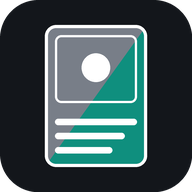
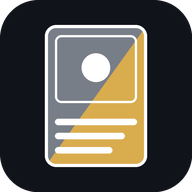
Ajuste No Layout

Changed region(s): [[0.25, 0.1562, 0.75, 0.875]]

diff --git a/index.html b/index.html
@@ -5,106 +5,143 @@
 <meta name="viewport" content="width=device-width, initial-scale=1">
 <title>Meus Master Sets</title>
 <link rel="manifest" href="manifest.json">
-<meta name="theme-color" content="#0f8f7e">
+<meta name="theme-color" content="#101319">
 <meta name="mobile-web-app-capable" content="yes">
 <meta name="apple-mobile-web-app-capable" content="yes">
 <meta name="apple-mobile-web-app-title" content="Master Sets">
 <link rel="icon" href="icon-192.png">
 <link rel="apple-touch-icon" href="icon-192.png">
 <style>
-:root{--bg:#eef0f3;--panel:#fff;--ink:#1b1f27;--mute:#6b7280;--line:#d9dde3;--acc:#0f8f7e;--accink:#fff;--warn:#c2410c}
-@media (prefers-color-scheme:dark){:root:not([data-theme=light]){--bg:#13161b;--panel:#1c2027;--ink:#e8eaee;--mute:#98a1ae;--line:#2c323c;--acc:#3ccab5;--accink:#08201c;--warn:#fb923c}}
+:root{color-scheme:dark;--bg:#15181e;--bg2:#101319;--panel:#1d212a;--panel2:#272c37;--ink:#ebe7df;--mute:#9aa0ac;--line:#2e3440;--acc:#d9ac4e;--accink:#1a1405;--warn:#f08a5d;--serif:Georgia,"Iowan Old Style","Palatino Linotype",serif}
 *{box-sizing:border-box}
-body{margin:0;background:var(--bg);color:var(--ink);font:15px/1.45 "Trebuchet MS",Verdana,sans-serif}
-header{display:flex;gap:12px;align-items:center;flex-wrap:wrap;padding:14px 18px;background:var(--panel);border-bottom:1px solid var(--line);position:sticky;top:0;z-index:5}
-h1{font-size:18px;margin:0 8px 0 0}
-select,input,button{font:inherit;color:var(--ink);background:var(--bg);border:1px solid var(--line);border-radius:8px;padding:7px 10px}
-button{cursor:pointer}
-button.p{background:var(--acc);color:var(--accink);border-color:var(--acc);font-weight:bold}
-button:focus-visible,input:focus-visible,select:focus-visible,.card:focus-visible{outline:2px solid var(--acc);outline-offset:2px}
-.sp{flex:1}
-main{padding:18px;max-width:1300px;margin:0 auto}
-.bar{display:flex;gap:14px;align-items:center;flex-wrap:wrap;margin-bottom:14px}
-.prog{flex:1;min-width:200px}
-.track{height:10px;background:var(--line);border-radius:6px;overflow:hidden;margin-top:4px}
-.fill{height:100%;background:var(--acc);width:0;transition:width .4s}
-.grid{display:grid;grid-template-columns:repeat(auto-fill,minmax(150px,1fr));gap:14px}
-.card{position:relative;background:var(--panel);border:1px solid var(--line);border-radius:10px;padding:6px;cursor:pointer;text-align:center}
-.card .im{aspect-ratio:245/342;border-radius:6px;overflow:hidden;background:var(--line);display:flex;align-items:center;justify-content:center;font-size:12px;color:var(--mute);padding:6px}
-.card img{width:100%;height:100%;object-fit:cover;display:block;filter:grayscale(1) opacity(.5);transition:filter .35s}
-.card.own img{filter:none}
-.card.own{border-color:var(--acc);box-shadow:0 0 0 2px var(--acc)}
-.card small{display:block;color:var(--mute);font-size:11px;margin-top:4px;line-height:1.25}
-.card b{display:block;font-size:13px;margin-top:5px}
-.card .x{position:absolute;z-index:2;top:8px;right:8px;padding:0 7px;line-height:22px;border-radius:50%;opacity:0}
-.card:hover .x,.card:focus-within .x{opacity:1}
-.empty{padding:50px 10px;text-align:center;color:var(--mute)}
-dialog{background:var(--panel);color:var(--ink);border:1px solid var(--line);border-radius:12px;padding:18px;width:min(720px,94vw);max-height:90vh}
-dialog::backdrop{background:rgba(0,0,0,.5)}
-.row{display:flex;gap:8px;flex-wrap:wrap;margin:8px 0}
-.row input{flex:1;min-width:140px}
-.res{display:grid;grid-template-columns:repeat(auto-fill,minmax(96px,1fr));gap:8px;margin:10px 0;max-height:46vh;overflow:auto}
-.res label{font-size:11px;text-align:center;cursor:pointer;border:2px solid transparent;border-radius:8px;padding:3px}
-.res label.on{border-color:var(--acc)}
-.res img{width:100%;border-radius:4px;display:block}
-.res input{display:none}
-.tabs{display:flex;gap:6px}
-.tabs button.on{background:var(--acc);color:var(--accink);border-color:var(--acc)}
-.msg{color:var(--mute);font-size:13px;min-height:18px}
-.msg.err{color:var(--warn)}
-.card .x.v{left:8px;right:auto;font-size:13px}
-@media (hover:none){.card .x{opacity:.85}}
-.meta{color:var(--acc);font-weight:bold}
-.dg{display:grid;grid-template-columns:minmax(0,260px) 1fr;gap:18px}
-@media(max-width:600px){.dg{grid-template-columns:1fr}}
-.dimg img{width:100%;border-radius:10px;display:block;cursor:zoom-in}
-.dimg button{width:100%;margin-top:8px}
-.dform{display:flex;flex-direction:column;gap:10px}
-.dform h2{margin:0;font-size:18px}
-.dform label{display:flex;flex-direction:column;gap:3px;font-size:13px;color:var(--mute)}
-.dform label.chk{flex-direction:row;align-items:center;gap:8px;color:var(--ink);font-size:15px}
-.dform label.chk input{width:18px;height:18px}
-#lb{position:fixed;inset:0;background:#000;z-index:50;display:flex;align-items:center;justify-content:center}
-#lb[hidden]{display:none}
-#lb img{max-width:100%;max-height:100vh;object-fit:contain}
-#lb button{position:absolute;background:rgba(255,255,255,.18);color:#fff;border:0;font-size:28px;width:48px;height:48px;border-radius:50%;padding:0}
-#lbX{top:14px;right:14px}#lbPrev{left:14px;top:50%}#lbNext{right:14px;top:50%}
-#lbCap{position:absolute;bottom:14px;left:0;right:0;text-align:center;color:#fff;font-size:14px;text-shadow:0 1px 4px #000}
-.card .x.h{left:50%;right:auto;transform:translateX(-50%);opacity:.9;cursor:grab;touch-action:none;user-select:none;-webkit-user-select:none;padding:0 10px}
-.card.drag{opacity:.35}
-.card.ghost{position:fixed;z-index:60;pointer-events:none;opacity:.92;box-shadow:0 10px 28px rgba(0,0,0,.45);transform:rotate(3deg)}
-.card.dropB{box-shadow:-6px 0 0 0 var(--acc)!important}
-.card.dropA{box-shadow:6px 0 0 0 var(--acc)!important}
 [hidden]{display:none!important}
+body{margin:0;background:var(--bg);color:var(--ink);font:15px/1.45 system-ui,-apple-system,"Segoe UI",Roboto,sans-serif}
+button,select,input{font:inherit;color:var(--ink);background:var(--panel2);border:1px solid var(--line);border-radius:8px;padding:8px 12px;min-height:38px}
+input,select{background:var(--bg2)}
+button{cursor:pointer}button:hover{border-color:#4a5262}
+button.p{background:var(--acc);color:var(--accink);border-color:var(--acc);font-weight:700}
+button:disabled{opacity:.45;cursor:default}
+button:focus-visible,input:focus-visible,select:focus-visible,.card:focus-visible,.rc:focus-within{outline:2px solid var(--acc);outline-offset:2px}
+.sp{flex:1}
+.msg{color:var(--mute);font-size:13px;min-height:18px}.msg.err{color:var(--warn)}
+header{display:flex;gap:10px;align-items:center;padding:10px 18px;background:var(--bg2);border-bottom:1px solid var(--line);position:sticky;top:0;z-index:5}
+header img{border-radius:7px;display:block}
+h1{font:bold 20px/1 var(--serif);margin:0}
+.menuwrap{position:relative}
+#menu{position:absolute;right:0;top:calc(100% + 6px);min-width:210px;background:var(--panel);border:1px solid var(--line);border-radius:10px;padding:6px;z-index:20;box-shadow:0 12px 30px rgba(0,0,0,.5);display:flex;flex-direction:column}
+#menu button{text-align:left;border:0;background:transparent}#menu button:hover{background:var(--panel2)}
+main{padding:18px;max-width:1300px;margin:0 auto}
+.tools{display:flex;gap:10px;align-items:center;flex-wrap:wrap;margin-bottom:14px}
+.seg{display:inline-flex;background:var(--bg2);border:1px solid var(--line);border-radius:10px;padding:3px;gap:2px}
+.seg button{border:0;background:transparent;color:var(--mute);min-height:32px;padding:4px 12px;border-radius:7px}
+.seg button.on{background:var(--panel2);color:var(--ink);box-shadow:inset 0 0 0 1px var(--acc)}
+.sum{background:var(--panel);border:1px solid var(--line);border-left:4px solid var(--acc);border-radius:10px;padding:12px 14px;margin-bottom:14px}
+#progTxt{font:600 17px/1.3 var(--serif)}
+.track{height:8px;background:var(--bg2);border-radius:5px;overflow:hidden;margin-top:8px;box-shadow:inset 0 1px 2px rgba(0,0,0,.5)}
+.fill{height:100%;background:linear-gradient(90deg,#b98a2e,var(--acc));width:0;transition:width .4s}
+.grid{display:grid;grid-template-columns:repeat(auto-fill,minmax(150px,1fr));gap:14px}
+@media(max-width:620px){.grid{grid-template-columns:repeat(auto-fill,minmax(128px,1fr));gap:10px}main{padding:12px}header{padding:8px 12px}}
+.card{position:relative;background:linear-gradient(#262b36,#1d212a);border:1px solid var(--line);border-radius:8px;padding:7px;cursor:pointer;text-align:center;box-shadow:inset 0 1px 0 rgba(255,255,255,.06),0 2px 6px rgba(0,0,0,.35)}
+.card .im{position:relative;aspect-ratio:245/342;border-radius:5px;overflow:hidden;background:var(--bg2);display:flex;align-items:center;justify-content:center;font-size:12px;color:var(--mute);padding:6px;box-shadow:inset 0 6px 14px rgba(0,0,0,.45)}
+.card .im::after{content:"";position:absolute;inset:0;background:linear-gradient(115deg,rgba(255,255,255,.11),transparent 38%);pointer-events:none}
+.card img{position:absolute;inset:0;width:100%;height:100%;object-fit:cover;display:block;filter:grayscale(1) opacity(.45);transition:filter .35s}
+.card.own img{filter:none}
+.card.own{border-color:var(--acc);box-shadow:0 0 0 1px var(--acc),0 4px 16px rgba(217,172,78,.2)}
+.card.own .im::before{content:"✓";position:absolute;right:6px;bottom:6px;z-index:1;width:22px;height:22px;border-radius:50%;background:var(--acc);color:var(--accink);font-weight:bold;line-height:22px}
+.card b{display:block;font-size:13px;margin-top:6px;white-space:nowrap;overflow:hidden;text-overflow:ellipsis}
+.card small{display:block;color:var(--mute);font-size:11px;margin-top:2px;line-height:1.25}
+.card small.meta{color:var(--acc);font-weight:600}
+.card .x{position:absolute;z-index:2;top:10px;right:10px;min-height:0;height:26px;min-width:26px;padding:0 7px;line-height:24px;border-radius:50%;background:rgba(12,14,18,.82);border-color:rgba(255,255,255,.18);opacity:0}
+.card:hover .x,.card:focus-within .x{opacity:1}
+@media(hover:none){.card .x{opacity:.85}}
+.card .x.v{left:10px;right:auto;font-size:13px}
+.card .x.h{left:50%;right:auto;transform:translateX(-50%);opacity:.95;cursor:grab;touch-action:none;user-select:none;-webkit-user-select:none;padding:0 10px}
+.card.drag{opacity:.35}
+.card.ghost{position:fixed;z-index:60;pointer-events:none;opacity:.92;box-shadow:0 10px 28px rgba(0,0,0,.5);transform:rotate(3deg)}
+.card.dropB{box-shadow:-6px 0 0 0 var(--acc)!important}.card.dropA{box-shadow:6px 0 0 0 var(--acc)!important}
+.empty{padding:56px 12px;text-align:center;color:var(--mute);font:16px/1.5 var(--serif)}.empty button{margin-top:14px;font-family:system-ui,sans-serif}
+.grid .empty{grid-column:1/-1;padding:24px 10px}
 #multi{display:flex;flex-direction:column;gap:12px}
-.setbox{background:var(--panel);border:1px solid var(--line);border-radius:12px;overflow:hidden}
+.setbox{background:var(--panel);border:1px solid var(--line);border-left:4px solid var(--acc);border-radius:12px;overflow:hidden}
 .sethead{display:flex;align-items:center;gap:10px;flex-wrap:wrap;padding:8px 10px}
-.sethead .tog{flex:1;min-width:160px;text-align:left;font-weight:bold;font-size:16px;border:0;background:transparent}
+.sethead .tog{flex:1;min-width:160px;text-align:left;border:0;background:transparent;font:bold 17px/1.3 var(--serif)}
 .sethead .sinfo{color:var(--mute);font-size:13px}
 .sethead .track{width:110px;margin:0}
 .setbox>.grid{padding:4px 12px 14px}
 .chev{display:inline-block;width:1.1em;color:var(--acc)}
-.grid .empty{grid-column:1/-1;padding:24px 10px}
+dialog{background:var(--panel);color:var(--ink);border:1px solid var(--line);border-radius:14px;padding:16px 18px;width:min(740px,94vw);max-height:92vh;box-shadow:0 24px 60px rgba(0,0,0,.6)}
+dialog[open]{display:flex;flex-direction:column;gap:12px}
+dialog::backdrop{background:rgba(5,6,9,.74)}
+@media(max-width:620px){dialog{width:100vw;max-width:100vw;margin:auto 0 0 0;border-radius:16px 16px 0 0;max-height:94vh}}
+.dhead{display:flex;align-items:center;gap:10px}
+.dhead h2{margin:0;font:bold 19px/1.2 var(--serif);flex:1}
+.ic{width:38px;padding:0;font-size:22px;line-height:1;border-radius:50%}
+.row{display:flex;gap:8px;align-items:center;flex-wrap:wrap}.row input{flex:1;min-width:150px}
+.pane{display:flex;flex-direction:column;gap:10px;min-width:0}
+.dfoot{display:flex;gap:8px;align-items:center;padding-top:10px;border-top:1px solid var(--line)}
+.res{display:grid;grid-template-columns:repeat(auto-fill,minmax(104px,1fr));gap:10px;max-height:min(46vh,430px);min-height:120px;overflow:auto;padding:2px}
+.rc{position:relative;display:flex;flex-direction:column;gap:3px;font-size:11px;text-align:center;cursor:pointer;border:2px solid transparent;border-radius:10px;padding:4px;background:var(--bg2)}
+.rc input{position:absolute;opacity:0;pointer-events:none}
+.rimg{display:block;aspect-ratio:245/342;border-radius:6px;overflow:hidden;background:var(--panel2)}
+.rimg img{width:100%;height:100%;object-fit:cover;display:block}
+.rn{font-weight:600;overflow:hidden;white-space:nowrap;text-overflow:ellipsis}.rs{color:var(--mute)}
+.rc.on{border-color:var(--acc)}
+.rc.on::after{content:"✓";position:absolute;top:8px;right:8px;width:22px;height:22px;border-radius:50%;background:var(--acc);color:var(--accink);font-weight:bold;line-height:22px}
+.rc.have{opacity:.5;cursor:default}
+.tagin{position:absolute;top:8px;left:8px;background:var(--panel2);border:1px solid var(--line);border-radius:6px;padding:0 6px;font-size:10px}
+.form{display:grid;grid-template-columns:1fr 1fr;gap:10px}.form .full{grid-column:1/-1}
+.form label,.dform label{display:flex;flex-direction:column;gap:4px;font-size:13px;color:var(--mute)}
+.dg{display:grid;grid-template-columns:minmax(0,250px) 1fr;gap:18px}
+@media(max-width:620px){.dg{grid-template-columns:1fr}.dimg{max-width:230px;margin:0 auto}}
+.dimg .slot{border-radius:10px;overflow:hidden;background:var(--bg2);box-shadow:0 6px 18px rgba(0,0,0,.5)}
+.dimg img{width:100%;display:block;cursor:zoom-in}
+.dimg button{width:100%;margin-top:8px}
+.dform{display:flex;flex-direction:column;gap:12px}
+.two{display:grid;grid-template-columns:1fr 1fr;gap:10px}
+label.sw{flex-direction:row;align-items:center;gap:12px;cursor:pointer;padding:10px 12px;background:var(--bg2);border:1px solid var(--line);border-radius:10px;font-size:15px;color:var(--ink)}
+.sw input{appearance:none;-webkit-appearance:none;flex:none;width:44px;height:26px;min-height:0;border:0;padding:0;margin:0;border-radius:13px;background:#3b4250;position:relative;transition:background .2s}
+.sw input::after{content:"";position:absolute;top:3px;left:3px;width:20px;height:20px;border-radius:50%;background:#fff;transition:left .2s}
+.sw input:checked{background:var(--acc)}.sw input:checked::after{left:21px;background:var(--accink)}
+.money{display:flex;align-items:center;background:var(--bg2);border:1px solid var(--line);border-radius:8px;padding-left:12px;color:var(--mute)}
+.money input{border:0;background:transparent;flex:1;min-width:0}
+details summary{cursor:pointer;color:var(--mute);font-size:13px;margin-bottom:6px}
+.hmb{display:none}
+@media(max-width:620px){h1,#addBtn{white-space:nowrap}.hd{display:none}.hmb{display:inline}.sethead{gap:8px}.sethead .tog{flex:1 0 140px;min-width:0}.sethead button[data-add]{padding:6px 10px}.sethead .sinfo{order:8}.sethead .track{order:9;flex:1;width:auto;min-width:80px}}
+#lb{position:fixed;inset:0;background:#000;z-index:50;display:flex;align-items:center;justify-content:center}
+#lb img{max-width:100%;max-height:100vh;object-fit:contain}
+#lb button{position:absolute;background:rgba(255,255,255,.18);color:#fff;border:0;font-size:28px;width:48px;height:48px;border-radius:50%;padding:0}
+#lbX{top:14px;right:14px}#lbPrev{left:14px;top:50%}#lbNext{right:14px;top:50%}
+#lbCap{position:absolute;bottom:14px;left:0;right:0;text-align:center;color:#fff;font-size:14px;text-shadow:0 1px 4px #000}
 </style>
 </head>
 <body>
 <header>
+  <img src="icon-192.png" width="30" height="30" alt="">
   <h1>Master Sets</h1>
-  <select id="viewSel" aria-label="Tipo de visualização"><option value="one">Visualização: set único</option><option value="multi">Visualização: vários sets</option></select>
-  <select id="setSel" aria-label="Master set"></select>
-  <button id="newSet">Novo master set</button>
-  <button id="delSet">Excluir set</button>
-  <button id="expAll">Expandir todos</button><button id="colAll">Recolher todos</button>
   <span class="sp"></span>
-  <button class="p" id="addBtn">Adicionar cartas</button>
-  <button id="expBtn">Exportar backup</button>
-  <button id="impBtn">Importar</button>
+  <button class="p" id="addBtn"><span class="hd">+ Adicionar cartas</span><span class="hmb">+ Cartas</span></button>
+  <div class="menuwrap">
+    <button id="menuBtn" class="ic" aria-haspopup="menu" aria-expanded="false" aria-label="Mais opções">⋯</button>
+    <div id="menu" role="menu" hidden>
+      <button id="newSet">Novo master set</button>
+      <button id="delSet">Excluir set atual</button>
+      <button id="expBtn">Exportar backup</button>
+      <button id="impBtn">Importar backup</button>
+    </div>
+  </div>
   <input type="file" id="impFile" accept=".json" hidden>
 </header>
 <main>
-  <div class="bar">
-    <div class="prog"><span id="progTxt"></span><div class="track"><div class="fill" id="fill"></div></div></div>
-    <select id="filter" aria-label="Filtro"><option value="all">Todas</option><option value="miss">Faltando</option><option value="own">Já tenho</option></select>
+  <div class="tools">
+    <div class="seg" id="viewSeg" role="group" aria-label="Visualização"><button data-v="one">Set único</button><button data-v="multi">Vários sets</button></div>
+    <select id="viewSel" hidden><option value="one"></option><option value="multi"></option></select>
+    <select id="setSel" aria-label="Master set"></select>
+    <button id="expAll">Expandir</button><button id="colAll">Recolher</button>
+  </div>
+  <div class="sum"><span id="progTxt"></span><div class="track"><div class="fill" id="fill"></div></div></div>
+  <div class="tools">
+    <div class="seg" id="filterSeg" role="group" aria-label="Filtro"><button data-f="all">Todas</button><button data-f="miss">Faltando</button><button data-f="own">Já tenho</button></div>
+    <select id="filter" hidden><option value="all"></option><option value="miss"></option><option value="own"></option></select>
     <select id="sort" aria-label="Ordenação"><option value="date">Ordem: lançamento</option><option value="az">Ordem: A–Z</option><option value="za">Ordem: Z–A</option><option value="manual">Ordem: manual (arrastar)</option></select>
     <span class="msg" id="hint"></span>
   </div>
@@ -112,46 +149,40 @@ dialog::backdrop{background:rgba(0,0,0,.5)}
 </main>
 
 <dialog id="dlg">
+  <div class="dhead"><h2>Adicionar cartas</h2><button class="ic" id="close" aria-label="Fechar">×</button></div>
   <div class="row"><span class="msg">Adicionar ao set:</span><select id="tgt" aria-label="Set de destino"></select></div>
-  <div class="tabs">
-    <button id="tApi" class="on">Buscar na internet</button>
-    <button id="tMan">Cadastrar manualmente</button>
-  </div>
-  <div id="pApi">
-    <div class="row">
-      <select id="mode"><option value="artist">Ilustrador</option><option value="name">Nome da carta</option></select>
-      <input id="q" placeholder="Ex.: Mitsuhiro Arita" aria-label="Busca">
-      <button class="p" id="go">Buscar</button>
-    </div>
+  <div class="seg"><button id="tApi" class="on">Buscar na internet</button><button id="tMan">Cadastrar manualmente</button></div>
+  <div id="pApi" class="pane">
+    <div class="seg" id="modeSeg"><button data-m="artist" class="on">Ilustrador</button><button data-m="name">Nome da carta</button></div>
+    <select id="mode" hidden><option value="artist"></option><option value="name"></option></select>
+    <div class="row"><input id="q" placeholder="Ex.: Mitsuhiro Arita" aria-label="Busca"><button class="p" id="go">Buscar</button></div>
     <div class="msg" id="apiMsg"></div>
     <div class="res" id="res"></div>
-    <div class="row">
-      <button id="selAll">Marcar todas</button>
-      <button id="more" hidden>Carregar mais</button>
-      <span class="sp"></span>
-      <button class="p" id="addSel">Adicionar selecionadas</button>
+    <div class="dfoot"><button id="selAll">Marcar todas</button><button id="more" hidden>Carregar mais</button><span class="sp"></span><button class="p" id="addSel" disabled>Adicionar selecionadas</button></div>
+  </div>
+  <div id="pMan" class="pane" hidden>
+    <div class="form">
+      <label class="full">Nome da carta<input id="mName" placeholder="Ex.: Charizard"></label>
+      <label>Coleção<input id="mSet" placeholder="Opcional"></label>
+      <label>Número<input id="mNum" placeholder="Opcional"></label>
+      <label class="full">URL da imagem<input id="mImg" placeholder="https://... (opcional)"></label>
     </div>
+    <div class="msg">Sem URL, o app tenta achar a imagem pelo nome e número.</div>
+    <div class="dfoot"><span class="sp"></span><button class="p" id="mAdd">Adicionar carta</button></div>
   </div>
-  <div id="pMan" hidden>
-    <div class="row"><input id="mName" placeholder="Nome da carta"><input id="mSet" placeholder="Coleção (opcional)"><input id="mNum" placeholder="Número (opcional)"></div>
-    <div class="row"><input id="mImg" placeholder="URL da imagem (opcional)"></div>
-    <div class="msg">Sem URL, o app tenta achar a imagem pelo nome e número na internet.</div>
-    <div class="row"><span class="sp"></span><button class="p" id="mAdd">Adicionar carta</button></div>
-  </div>
-  <div class="row"><span class="sp"></span><button id="close">Fechar</button></div>
 </dialog>
 
 <dialog id="det">
+  <div class="dhead"><h2 id="dName"></h2><button class="ic" id="dClose" aria-label="Fechar">×</button></div>
+  <div class="msg" id="dSub"></div>
   <div class="dg">
-    <div class="dimg"><img id="dImg" alt=""><button id="dFull">Tela cheia</button></div>
+    <div class="dimg"><div class="slot"><img id="dImg" alt=""></div><button id="dFull">⤢ Tela cheia</button></div>
     <div class="dform">
-      <h2 id="dName"></h2><div class="msg" id="dSub"></div>
-      <label class="chk"><input type="checkbox" id="dOwn"> Já tenho esta carta</label>
-      <label>Condição<select id="dCond"></select></label>
-      <label>Versão<select id="dVer"></select></label>
-      <label>Preço pago (R$)<input id="dPrice" type="number" min="0" step="0.01" inputmode="decimal"></label>
-      <label>URL da imagem<input id="dUrl" placeholder="https://..."></label>
-      <div class="row"><span class="sp"></span><button class="p" id="dClose">Fechar</button></div>
+      <label class="sw"><input type="checkbox" id="dOwn"><span>Já tenho esta carta</span></label>
+      <div class="two"><label>Condição<select id="dCond"></select></label><label>Versão<select id="dVer"></select></label></div>
+      <label>Preço pago<div class="money"><span>R$</span><input id="dPrice" type="number" min="0" step="0.01" inputmode="decimal" placeholder="0,00"></div></label>
+      <details><summary>Imagem da carta</summary><label>URL da imagem<input id="dUrl" placeholder="https://..."></label></details>
+      <div class="msg">As alterações são salvas automaticamente.</div>
     </div>
   </div>
 </dialog>
@@ -182,14 +213,14 @@ function stats(cards){
 }
 function findCard(id){for(const s of S.sets){const c=s.cards.find(x=>x.id===id);if(c)return {s,c}}return null}
 function render(){
-  const multi=S.view==='multi';
+  const multi=S.view==='multi';syncSeg();
   $('viewSel').value=multi?'multi':'one';
   $('setSel').hidden=multi;$('delSet').hidden=multi;$('expAll').hidden=!multi;$('colAll').hidden=!multi;
   $('setSel').innerHTML=S.sets.map(s=>`<option value="${s.id}" ${s.id===S.cur?'selected':''}>${esc(s.name)}</option>`).join('')||'<option>Nenhum set</option>';
   const g=$('grid'),m=$('multi');g.hidden=multi;m.hidden=!multi;
   const f=$('filter').value,canDrag=$('sort').value==='manual'&&f==='all';
   $('hint').textContent=$('sort').value==='manual'?(canDrag?'Arraste pelo botão ⠿ para reordenar.':'Para reordenar, use o filtro "Todas".'):'';
-  if(!S.sets.length){(multi?m:g).innerHTML='<div class="empty">Crie seu primeiro master set (por exemplo, o nome de um ilustrador).</div>';$('progTxt').textContent='';$('fill').style.width='0';return}
+  if(!S.sets.length){(multi?m:g).innerHTML='<div class="empty">Seu fichário está vazio.<br>Crie um master set, por exemplo com o nome de um ilustrador.<br><button class="p" data-newset>Criar master set</button></div>';$('progTxt').textContent='';$('fill').style.width='0';return}
   if(multi){
     const t=stats(S.sets.flatMap(x=>x.cards));
     $('progTxt').textContent=`${t.own} de ${t.tot} cartas em ${S.sets.length} sets (${Math.round(t.pct)}%)`+(t.spent?` · Investido: ${money(t.spent)}`:'');
@@ -213,6 +244,7 @@ function render(){
 
 $('area').addEventListener('click',e=>{
   if(e.target.closest('[data-h]'))return;
+  if(e.target.closest('[data-newset]')){$('newSet').click();return}
   const tg=e.target.closest('[data-tog]');
   if(tg){const x=S.sets.find(y=>y.id===tg.dataset.tog);x.open=!x.open;S.cur=x.id;save();render();return}
   const ad=e.target.closest('[data-add]');
@@ -269,15 +301,18 @@ async function search(more){
     drawRes();
   }catch(e){m.className='msg err';m.textContent='Falha na busca ('+e.message+'). Verifique a internet e tente de novo; a API às vezes demora.'}
 }
+function updateSel(){const n=picked.size;$('addSel').disabled=!n;$('addSel').textContent=n?`Adicionar (${n})`:'Adicionar selecionadas'}
 function drawRes(){
-  const s=cur(),have=new Set(s.cards.map(c=>c.key));
-  $('res').innerHTML=results.map(c=>`<label class="${picked.has(c.key)?'on':''}" title="${esc(c.name)}"><input type="checkbox" data-k="${c.key}" ${picked.has(c.key)?'checked':''}><img loading="lazy" src="${esc(c.img)}" alt="${esc(c.name)}">${esc(c.name)}<br>${esc(c.set)} #${esc(c.num)}${have.has(c.key)?'<br><b>(já no set)</b>':''}</label>`).join('');
+  const have=new Set(cur().cards.map(c=>c.key));
+  $('res').innerHTML=results.map(c=>{const h=have.has(c.key),on=picked.has(c.key);
+    return `<label class="rc ${on?'on':''} ${h?'have':''}" title="${esc(c.name)}"><input type="checkbox" data-k="${c.key}" ${on?'checked':''} ${h?'disabled':''}><span class="rimg"><img loading="lazy" src="${esc(c.img)}" alt="${esc(c.name)}"></span><span class="rn">${esc(c.name)}</span><span class="rs">${esc(c.set)} #${esc(c.num)}</span>${h?'<span class="tagin">No set</span>':''}</label>`}).join('');
+  updateSel();
 }
-$('res').addEventListener('change',e=>{const k=e.target.dataset.k;e.target.checked?picked.add(k):picked.delete(k);e.target.parentNode.classList.toggle('on',e.target.checked)});
+$('res').addEventListener('change',e=>{const k=e.target.dataset.k;e.target.checked?picked.add(k):picked.delete(k);e.target.parentNode.classList.toggle('on',e.target.checked);updateSel()});
 $('go').onclick=()=>search(false);
 $('q').onkeydown=e=>{if(e.key==='Enter')search(false)};
 $('more').onclick=()=>search(true);
-$('selAll').onclick=()=>{const all=picked.size===results.length;picked=new Set(all?[]:results.map(c=>c.key));drawRes()};
+$('selAll').onclick=()=>{const have=new Set(cur().cards.map(c=>c.key)),ks=results.filter(c=>!have.has(c.key)).map(c=>c.key),all=ks.length&&ks.every(k=>picked.has(k));picked=new Set(all?[]:ks);drawRes()};
 $('addSel').onclick=()=>{
   const s=cur(),have=new Set(s.cards.map(c=>c.key));let n=0;
   results.filter(c=>picked.has(c.key)&&!have.has(c.key)).forEach(c=>{s.cards.push({id:uid(),key:c.key,name:c.name,set:c.set,num:c.num,img:c.img,big:c.big,date:c.date,owned:false});n++});
@@ -401,6 +436,20 @@ function endDrag(ok){
 }
 window.addEventListener('pointerup',()=>endDrag(true));
 window.addEventListener('pointercancel',()=>endDrag(false));
+
+/* Menu, controles segmentados */
+function syncSeg(){
+  document.querySelectorAll('#viewSeg button').forEach(b=>b.classList.toggle('on',b.dataset.v===(S.view==='multi'?'multi':'one')));
+  document.querySelectorAll('#filterSeg button').forEach(b=>b.classList.toggle('on',b.dataset.f===$('filter').value));
+}
+$('viewSeg').onclick=e=>{const b=e.target.closest('button');if(b){S.view=b.dataset.v;save();render()}};
+$('filterSeg').onclick=e=>{const b=e.target.closest('button');if(b){$('filter').value=b.dataset.f;render()}};
+$('modeSeg').onclick=e=>{const b=e.target.closest('button');if(!b)return;$('mode').value=b.dataset.m;$('mode').onchange();document.querySelectorAll('#modeSeg button').forEach(x=>x.classList.toggle('on',x===b))};
+function closeMenu(){$('menu').hidden=true;$('menuBtn').setAttribute('aria-expanded','false')}
+$('menuBtn').onclick=()=>{const o=$('menu').hidden;$('menu').hidden=!o;$('menuBtn').setAttribute('aria-expanded',String(o))};
+document.addEventListener('click',e=>{if(!e.target.closest('.menuwrap'))closeMenu()});
+$('menu').addEventListener('click',e=>{if(e.target.closest('button'))closeMenu()});
+document.addEventListener('keydown',e=>{if(e.key==='Escape')closeMenu()});
 
 /* PWA: service worker e armazenamento persistente */
 if('serviceWorker' in navigator&&/^https?:$/.test(location.protocol)){

diff --git a/sw.js b/sw.js
@@ -1,4 +1,4 @@
-const VERSION='v1';
+const VERSION='v2';
 const SHELL='shell-'+VERSION, IMGS='imgs-v1';
 const FILES=['./','index.html','manifest.json','icon-192.png','icon-512.png','icon-maskable-512.png'];
 const MAX_IMGS=600;
